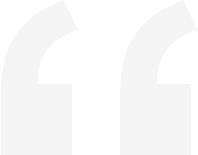
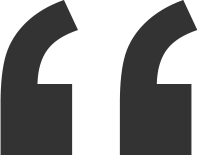
style: finishing homepage restyle

diff --git a/src/components/Slider/Slider.tsx b/src/components/Slider/Slider.tsx
@@ -97,31 +97,33 @@ const Slider = ({
   }
 
   return (
-    <div className={styles.sliderWrap}>
-      <img src="/quote.png" className={styles.quoteLeft}/>
-      <img src="/quote.png" className={styles.quoteRight}/>
+    <div className={styles.sliderBorder}>
+      <div className={styles.sliderWrap}>
+        <img src="/quote.png" className={styles.quoteLeft}/>
+        <img src="/quote.png" className={styles.quoteRight}/>
 
-      <div className={styles.slidesWrap} ref={sliderRef}>
-        {MOCK_TESTIMONIALS.map((testimonial, idx) => (
-          <Slide
-            key={testimonial.id}
-            {...testimonial}
-            active={activeIndex === idx}
-          />
-        ))}
-      </div>
+        <div className={styles.slidesWrap} ref={sliderRef}>
+          {MOCK_TESTIMONIALS.map((testimonial, idx) => (
+            <Slide
+              key={testimonial.id}
+              {...testimonial}
+              active={activeIndex === idx}
+            />
+          ))}
+        </div>
 
-      <div className={styles.pagination}>
-        <IconButton className={styles.icons} onClick={handleTogglePlaying}>
-          {isRunning ? <PauseIcon fontSize="large" /> : <PlayArrowIcon fontSize="large" />}
-        </IconButton>
-        {MOCK_TESTIMONIALS.map((testimonial, iDot) => (
-          <div
-            key={testimonial.id}
-            className={activeIndex === iDot ? styles.dotActive : styles.dot}
-            onClick={() => activeIndex === iDot ? false : handleDotClick(iDot)}
-          ></div>
-        ))}
+        <div className={styles.pagination}>
+          <IconButton className={styles.icons} onClick={handleTogglePlaying}>
+            {isRunning ? <PauseIcon fontSize="large" /> : <PlayArrowIcon fontSize="large" />}
+          </IconButton>
+          {MOCK_TESTIMONIALS.map((testimonial, iDot) => (
+            <div
+              key={testimonial.id}
+              className={activeIndex === iDot ? styles.dotActive : styles.dot}
+              onClick={() => activeIndex === iDot ? false : handleDotClick(iDot)}
+            ></div>
+          ))}
+        </div>
       </div>
     </div>
   )

diff --git a/src/components/Slider/Slider.module.scss b/src/components/Slider/Slider.module.scss
@@ -1,7 +1,13 @@
+.sliderBorder {
+  padding: 1px;
+  border-radius: 21px;
+  background: linear-gradient(45deg,#111 0,#666 50%, #111 100%);
+}
+
 .sliderWrap {
   display: flex;
   padding: 100px;
-  background: #fff;
+  background: rgba(0,0,0,.9);
   position: relative;
   border-radius: 20px;
   overflow: hidden;
@@ -120,9 +126,9 @@
   }
 
   h5 {
-    color: #aaa;
     font-size: 16px;
     font-weight: 400;
+    line-height: 100%;
   }
 
   @media (max-width: 768px) {
@@ -164,20 +170,20 @@
   width: 10px;
   height: 10px;
   cursor: pointer;
-  background: #ddd;
+  background: #666;
   border-radius: 100px;
   transition: all ease-in .25s;
 
   &:hover {
     width: 15px;
     height: 15px;
-    background: #aaa;
+    background: #ccc;
   }
 }
 
 .dotActive {
   width: 20px;
   height: 20px;
-  background: #566e8f;
+  background: #fff;
   border-radius: 100px;
 }

diff --git a/src/components/Footer/Footer.module.scss b/src/components/Footer/Footer.module.scss
@@ -5,7 +5,7 @@
 .blurbs {
   display: flex;
   padding: 50px 0 20px;
-  border-bottom: 1px solid rgba(39,62,93,1);
+  border-bottom: 1px solid rgba(255, 255, 255, 0.05);
 }
 
 .blurb {
@@ -40,7 +40,7 @@
   color: #888;
   font-size: 12px;
   display: flex;
-  padding: 100px 0 50px;
+  padding: 75px 0 50px;
 }
 
 .footerLogo {
@@ -52,10 +52,9 @@
   padding: 20px 30px;
 
   h5 {
-    margin: 0;
     color: #fff;
     font-size: 20px;
-    margin-bottom: 10px;
+    margin: 0 0 10px;
     text-transform: uppercase;
   }
 
@@ -65,6 +64,10 @@
     list-style: none;
     display: flex;
     flex-direction: column;
+  }
+
+  p {
+    margin: 0;
   }
 
   a {
@@ -84,8 +87,8 @@
 }
 
 .footerTitleDivider {
-  width: 50px;
+  width: 40px;
   height: 2px;
-  background: #fff;
+  background: rgba(255,255,255,0.25);
   margin-bottom: 20px;
 }

diff --git a/src/app/theme.ts b/src/app/theme.ts
@@ -38,7 +38,7 @@ const theme: Theme = createTheme({
       contrastText: '#fff'
     },
     clear: {
-      main: '#fff',
+      main: 'rgba(255,255,255,0.25)',
     },
     nav: {
       main: 'rgba(255,255,255,0.75)',
@@ -89,6 +89,11 @@ const theme: Theme = createTheme({
         root: ({ ownerState }) => ({
           boxSizing: 'border-box',
           padding: '10px 20px',
+          ...(ownerState.color === 'clear' && {
+            ':hover': {
+              color: 'rgba(255,255,255,0.75)',
+            }
+          }),
           ...(ownerState.color === 'nav' && {
             background: 'linear-gradient(180deg,#999,#666)',
             WebkitBackgroundClip: 'text',

diff --git a/src/components/Hero/Hero.tsx b/src/components/Hero/Hero.tsx
@@ -6,7 +6,6 @@ import { motion } from 'framer-motion';
 import Nav from "@/components/Nav/Nav";
 import Button from "@mui/material/Button";
 import Typography from "@mui/material/Typography";
-import GradientButton from "@/components/GradientButton/GradientButton";
 
 type HeroType = {
   navOnly?: boolean;

diff --git a/src/app/page.module.scss b/src/app/page.module.scss
@@ -26,5 +26,5 @@
 .footerWrapper {
   padding-bottom: 50px;
   background: rgb(7,14,23);
-  background: linear-gradient(45deg, rgba(7,14,23,1) 0%, rgba(39,62,93,1) 100%);
+  background: linear-gradient(45deg, rgba(0,0,0,1) 0%, rgba(0,0,0,0.5) 100%);
 }
